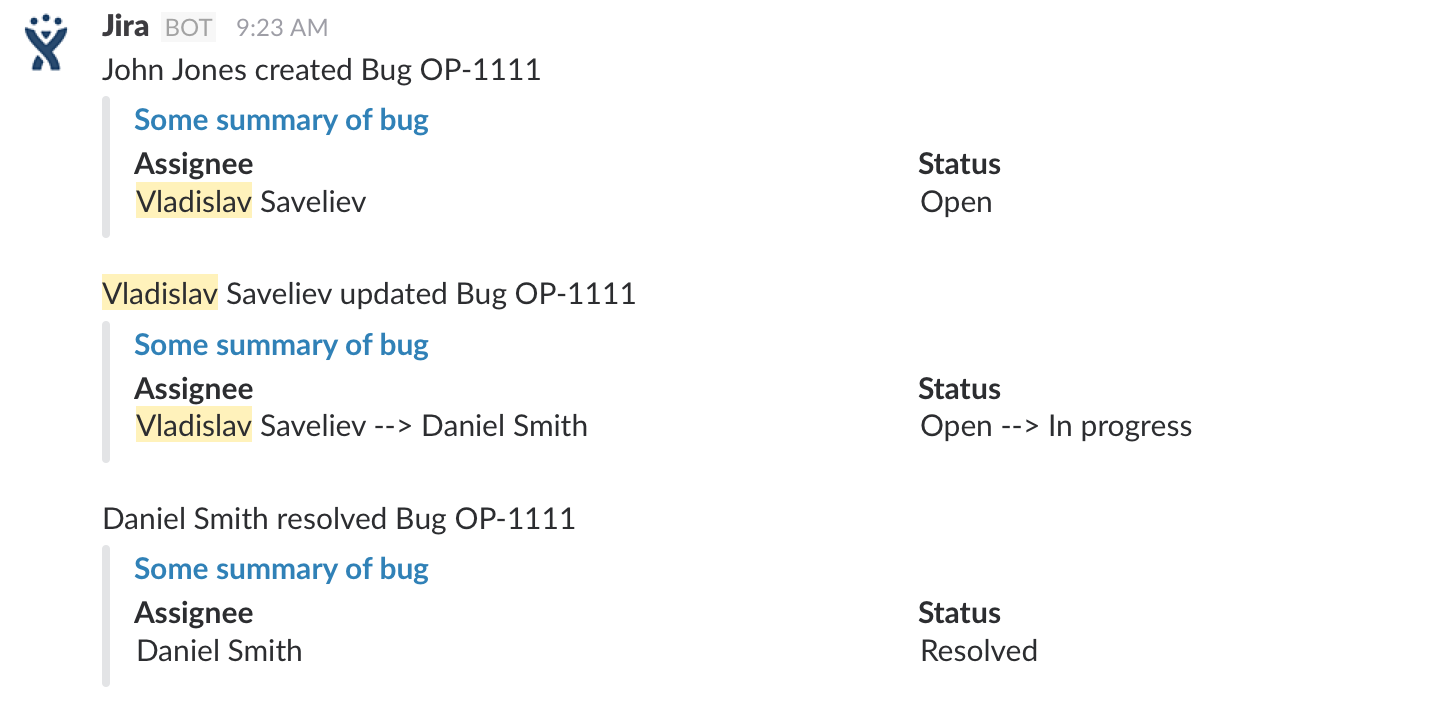
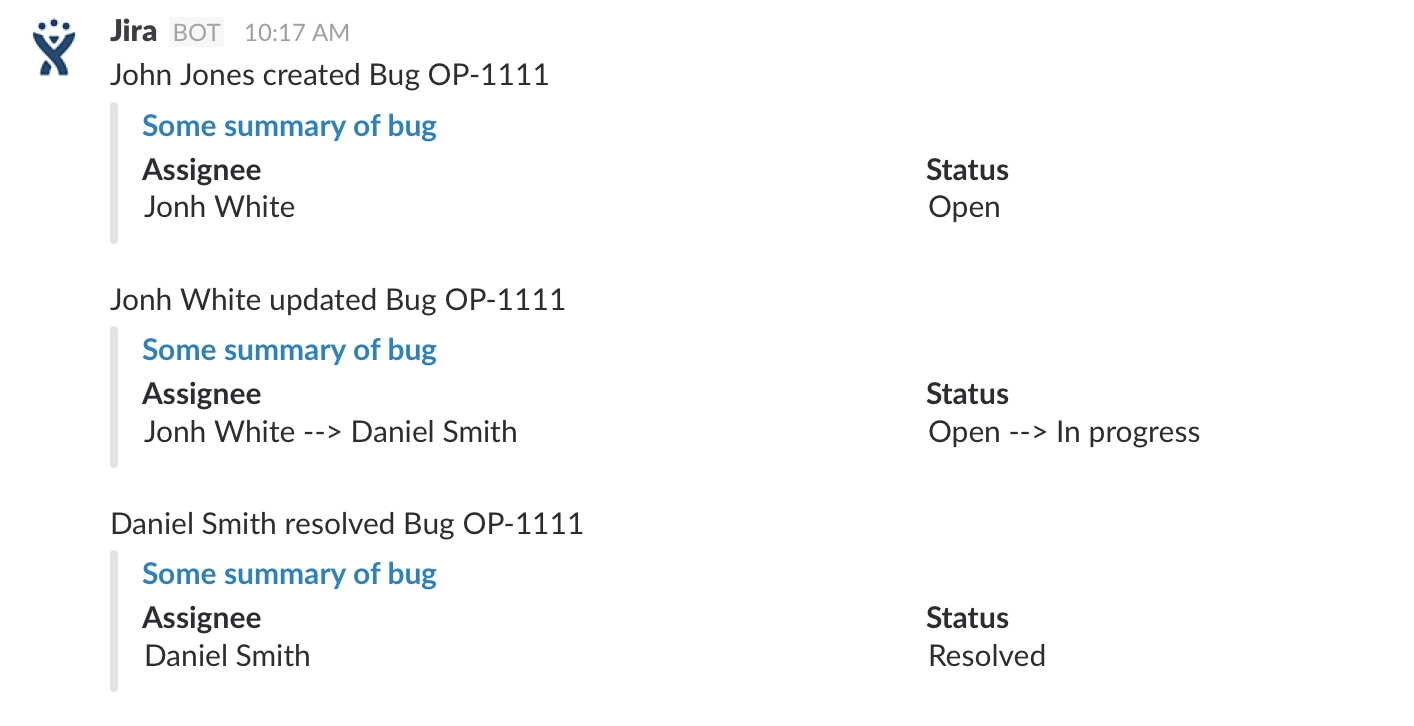
changed screenshot

diff --git a/jira/jira_web_hook_test.go b/jira/jira_web_hook_test.go
@@ -26,7 +26,7 @@ var jsonCreatedIssueEvent string = `{
                     "32x32": "https://jira.github.com/secure/useravatar?size=medium&ownerId=johnsmith&avatarId=10800",
                     "48x48": "https://jira.github.com/secure/useravatar?ownerId=johnsmith&avatarId=10800"
                 },
-                "displayName": "Vladislav Saveliev",
+                "displayName": "Jonh White",
                 "emailAddress": "johnsmith@github.com",
                 "key": "johnsmith",
                 "name": "johnsmith",
@@ -229,7 +229,7 @@ var jsonUpdatedIssueEvent string = `
                     "32x32": "https://jira.github.com/secure/useravatar?size=medium&ownerId=vsaveliev&avatarId=10600",
                     "48x48": "https://jira.github.com/secure/useravatar?ownerId=vsaveliev&avatarId=10600"
                 },
-                "displayName": "Vladislav Saveliev",
+                "displayName": "Jonh White",
                 "emailAddress": "vsaveliev@github.com",
                 "key": "vsaveliev",
                 "name": "vsaveliev",
@@ -309,7 +309,7 @@ var jsonUpdatedIssueEvent string = `
             "customfield_10505": {
                 "id": "10114",
                 "self": "https://jira.github.com/rest/api/2/customFieldOption/10114",
-                "value": "Expirations ( Vladislav Saveliev )"
+                "value": "Expirations ( Jonh White )"
             },
             "description": "Reseller reports to me that most of the domains that were renewed today were invoiced double.",
             "duedate": null,
@@ -429,7 +429,7 @@ var jsonUpdatedIssueEvent string = `
             "32x32": "https://jira.github.com/secure/useravatar?size=medium&ownerId=vsaveliev&avatarId=10600",
             "48x48": "https://jira.github.com/secure/useravatar?ownerId=vsaveliev&avatarId=10600"
         },
-        "displayName": "Vladislav Saveliev",
+        "displayName": "Jonh White",
         "emailAddress": "vsaveliev@github.com",
         "key": "vsaveliev",
         "name": "vsaveliev",
@@ -531,7 +531,7 @@ func getWebHookEvent() jira.WebHookEvent {
 	event := jira.WebHookEvent{}
 
 	event.Event = "jira:issue_created"
-	event.Issue.Fields.Assignee.DisplayName = "Vladislav Saveliev"
+	event.Issue.Fields.Assignee.DisplayName = "Jonh White"
 	event.Issue.Fields.Creator.DisplayName = "Michael Daddy"
 	event.Issue.Fields.Reporter.DisplayName = "Michael Daddy"
 	event.Issue.Fields.IssueType.Name = "Bug"
@@ -544,7 +544,7 @@ func getWebHookEvent() jira.WebHookEvent {
 
 func checkWebHookEventFields(t *testing.T, event jira.WebHookEvent) {
 	fields := event.Issue.Fields
-	if fields.Assignee.DisplayName != "Vladislav Saveliev" {
+	if fields.Assignee.DisplayName != "Jonh White" {
 		t.Error("Incorrect parsing of assignee name ", fields.Assignee.DisplayName)
 	}
 

diff --git a/main_test.go b/main_test.go
@@ -40,7 +40,7 @@ func getEventCreatedIssue() jira.WebHookEvent {
 	event := jira.WebHookEvent{}
 
 	event.Event = "jira:issue_created"
-	event.Issue.Fields.Assignee.DisplayName = "Vladislav Saveliev"
+	event.Issue.Fields.Assignee.DisplayName = "Jonh White"
 	event.Issue.Fields.Creator.DisplayName = "Michael Daddy"
 	event.Issue.Fields.Reporter.DisplayName = "Michael Daddy"
 	event.Modifier.DisplayName = "John Jones"
@@ -55,7 +55,7 @@ func getEventCreatedIssue() jira.WebHookEvent {
 func getEventUpdatedIssue() jira.WebHookEvent {
 	event := getEventCreatedIssue()
 
-	event.Modifier.DisplayName = "Vladislav Saveliev"
+	event.Modifier.DisplayName = "Jonh White"
 	event.Event = "jira:issue_updated"
 	items := make([]jira.ChangeLogItem, 2);
 	items[0] = jira.ChangeLogItem{
@@ -65,7 +65,7 @@ func getEventUpdatedIssue() jira.WebHookEvent {
 	}
 	items[1] = jira.ChangeLogItem{
 		Field: "assignee",
-		FromString: "Vladislav Saveliev",
+		FromString: "Jonh White",
 		ToString: "Daniel Smith",
 	}
 	event.Changelog.Items = items
